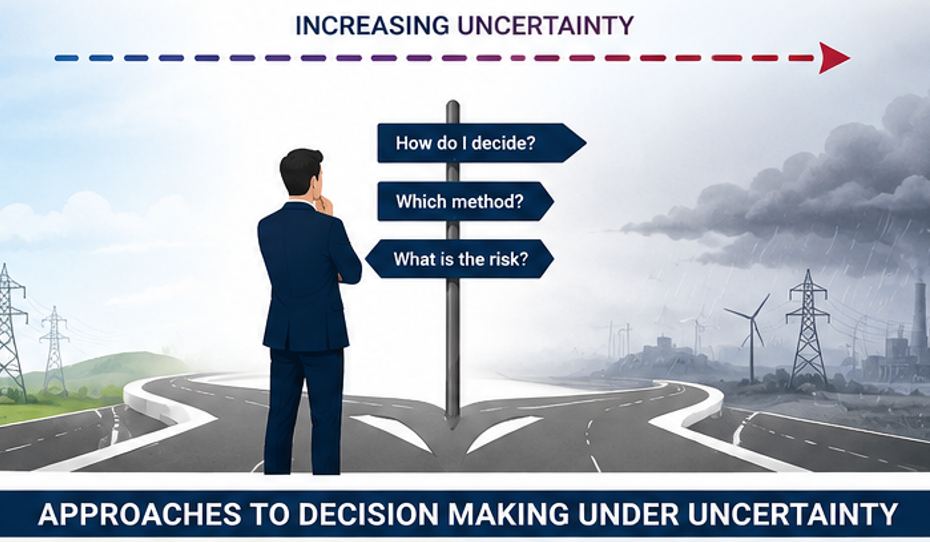
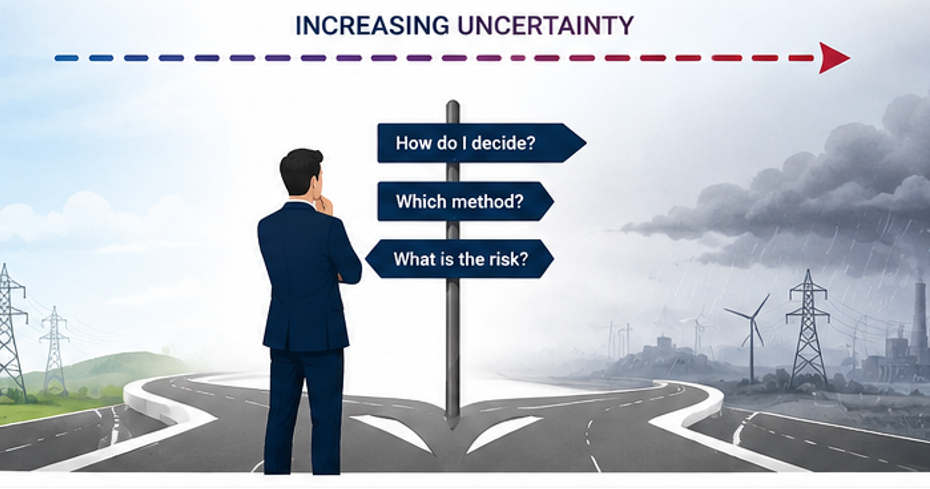
xz\

diff --git a/src/content/courses/intro-power-system.md b/src/content/courses/intro-power-system.md
@@ -4,7 +4,7 @@ title: "دوره مقدماتی بهینهسازی سیستمهای قدر
 seoTitle: "دوره مقدماتی بهینهسازی سیستمهای قدرت"
 description:  "دوره مقدماتی و پروژهمحور بهینهسازی سیستمهای قدرت در ۸ ساعت: پخش بار اقتصادی (Economic Dispatch)، پخش بار اقتصادی دینامیکی، DC-OPF، مدلسازی ذخیرهساز انرژی و باتری و مقدمهای بر آرایش بهینه نیروگاهی (Unit Commitment) در Python."
 pubDate: 2026-06-22
-image: "/images/courses/Intro_power.png"
+image: "/images/courses/intro_power.png"
 imageAlt: "کاور دوره مقدماتی بهینهسازی سیستمهای قدرت"
 
 # === متغیرهای اختصاصی دوره (برای نمایش در کارتها و Schema) ===
